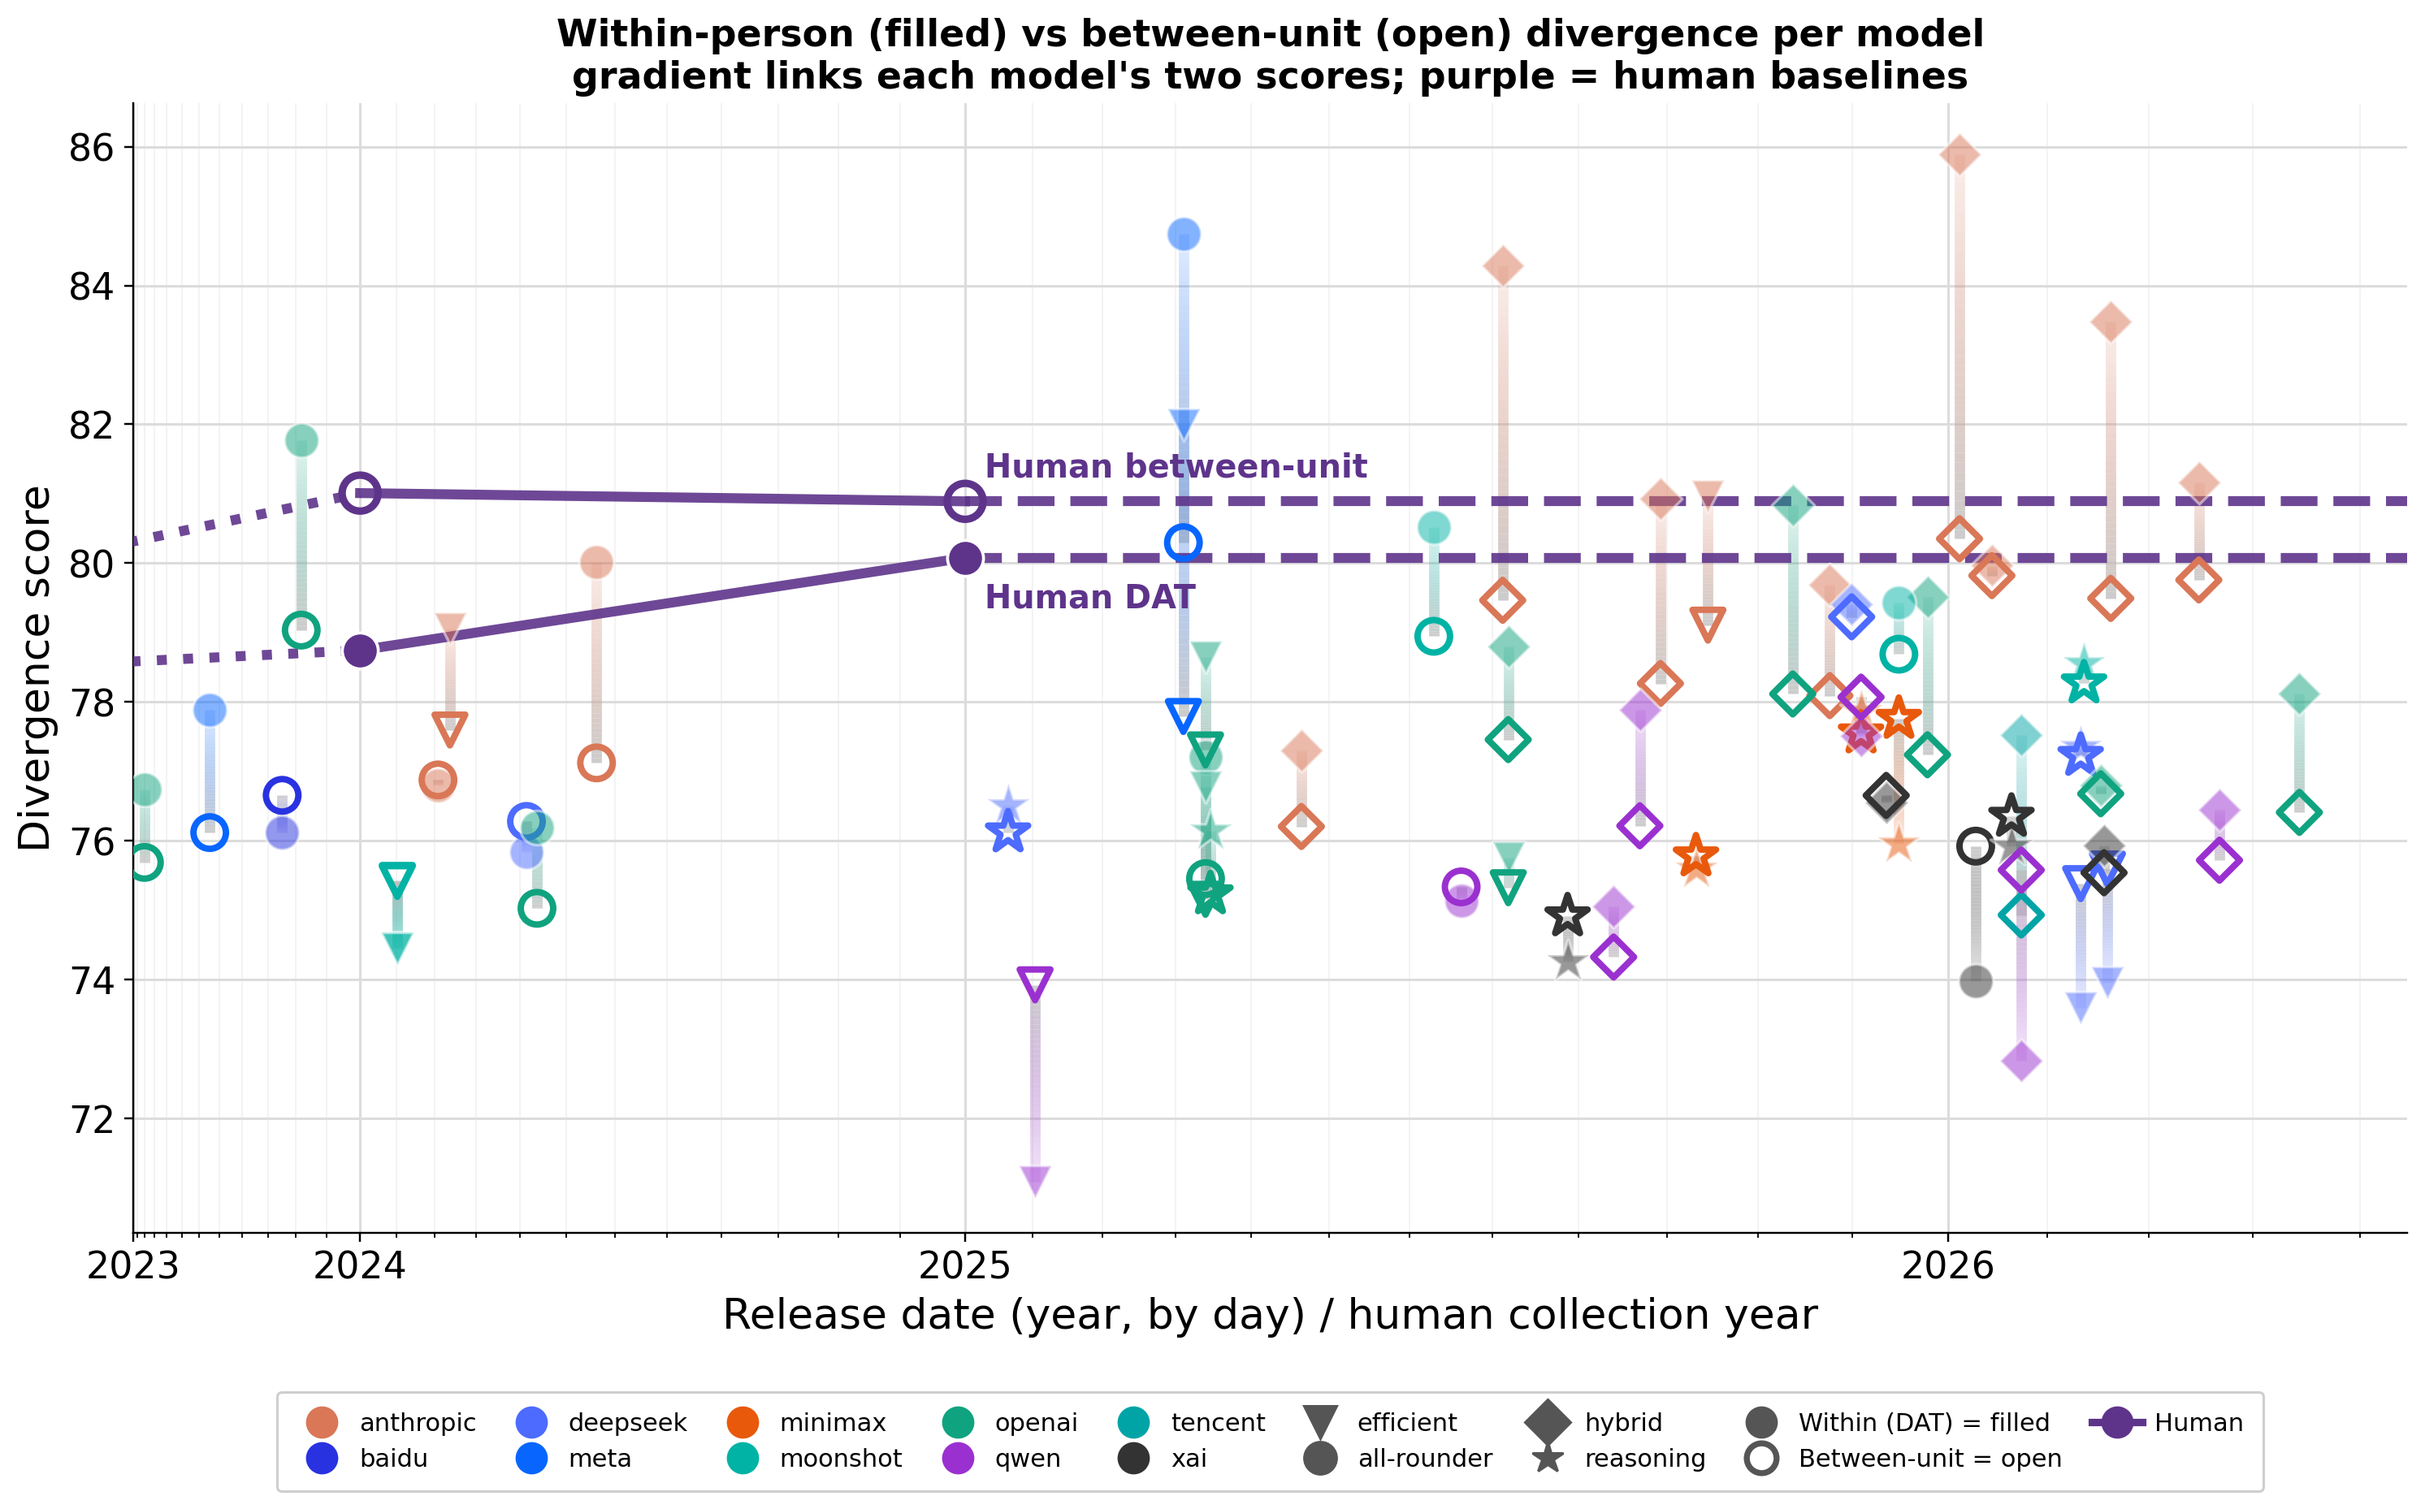
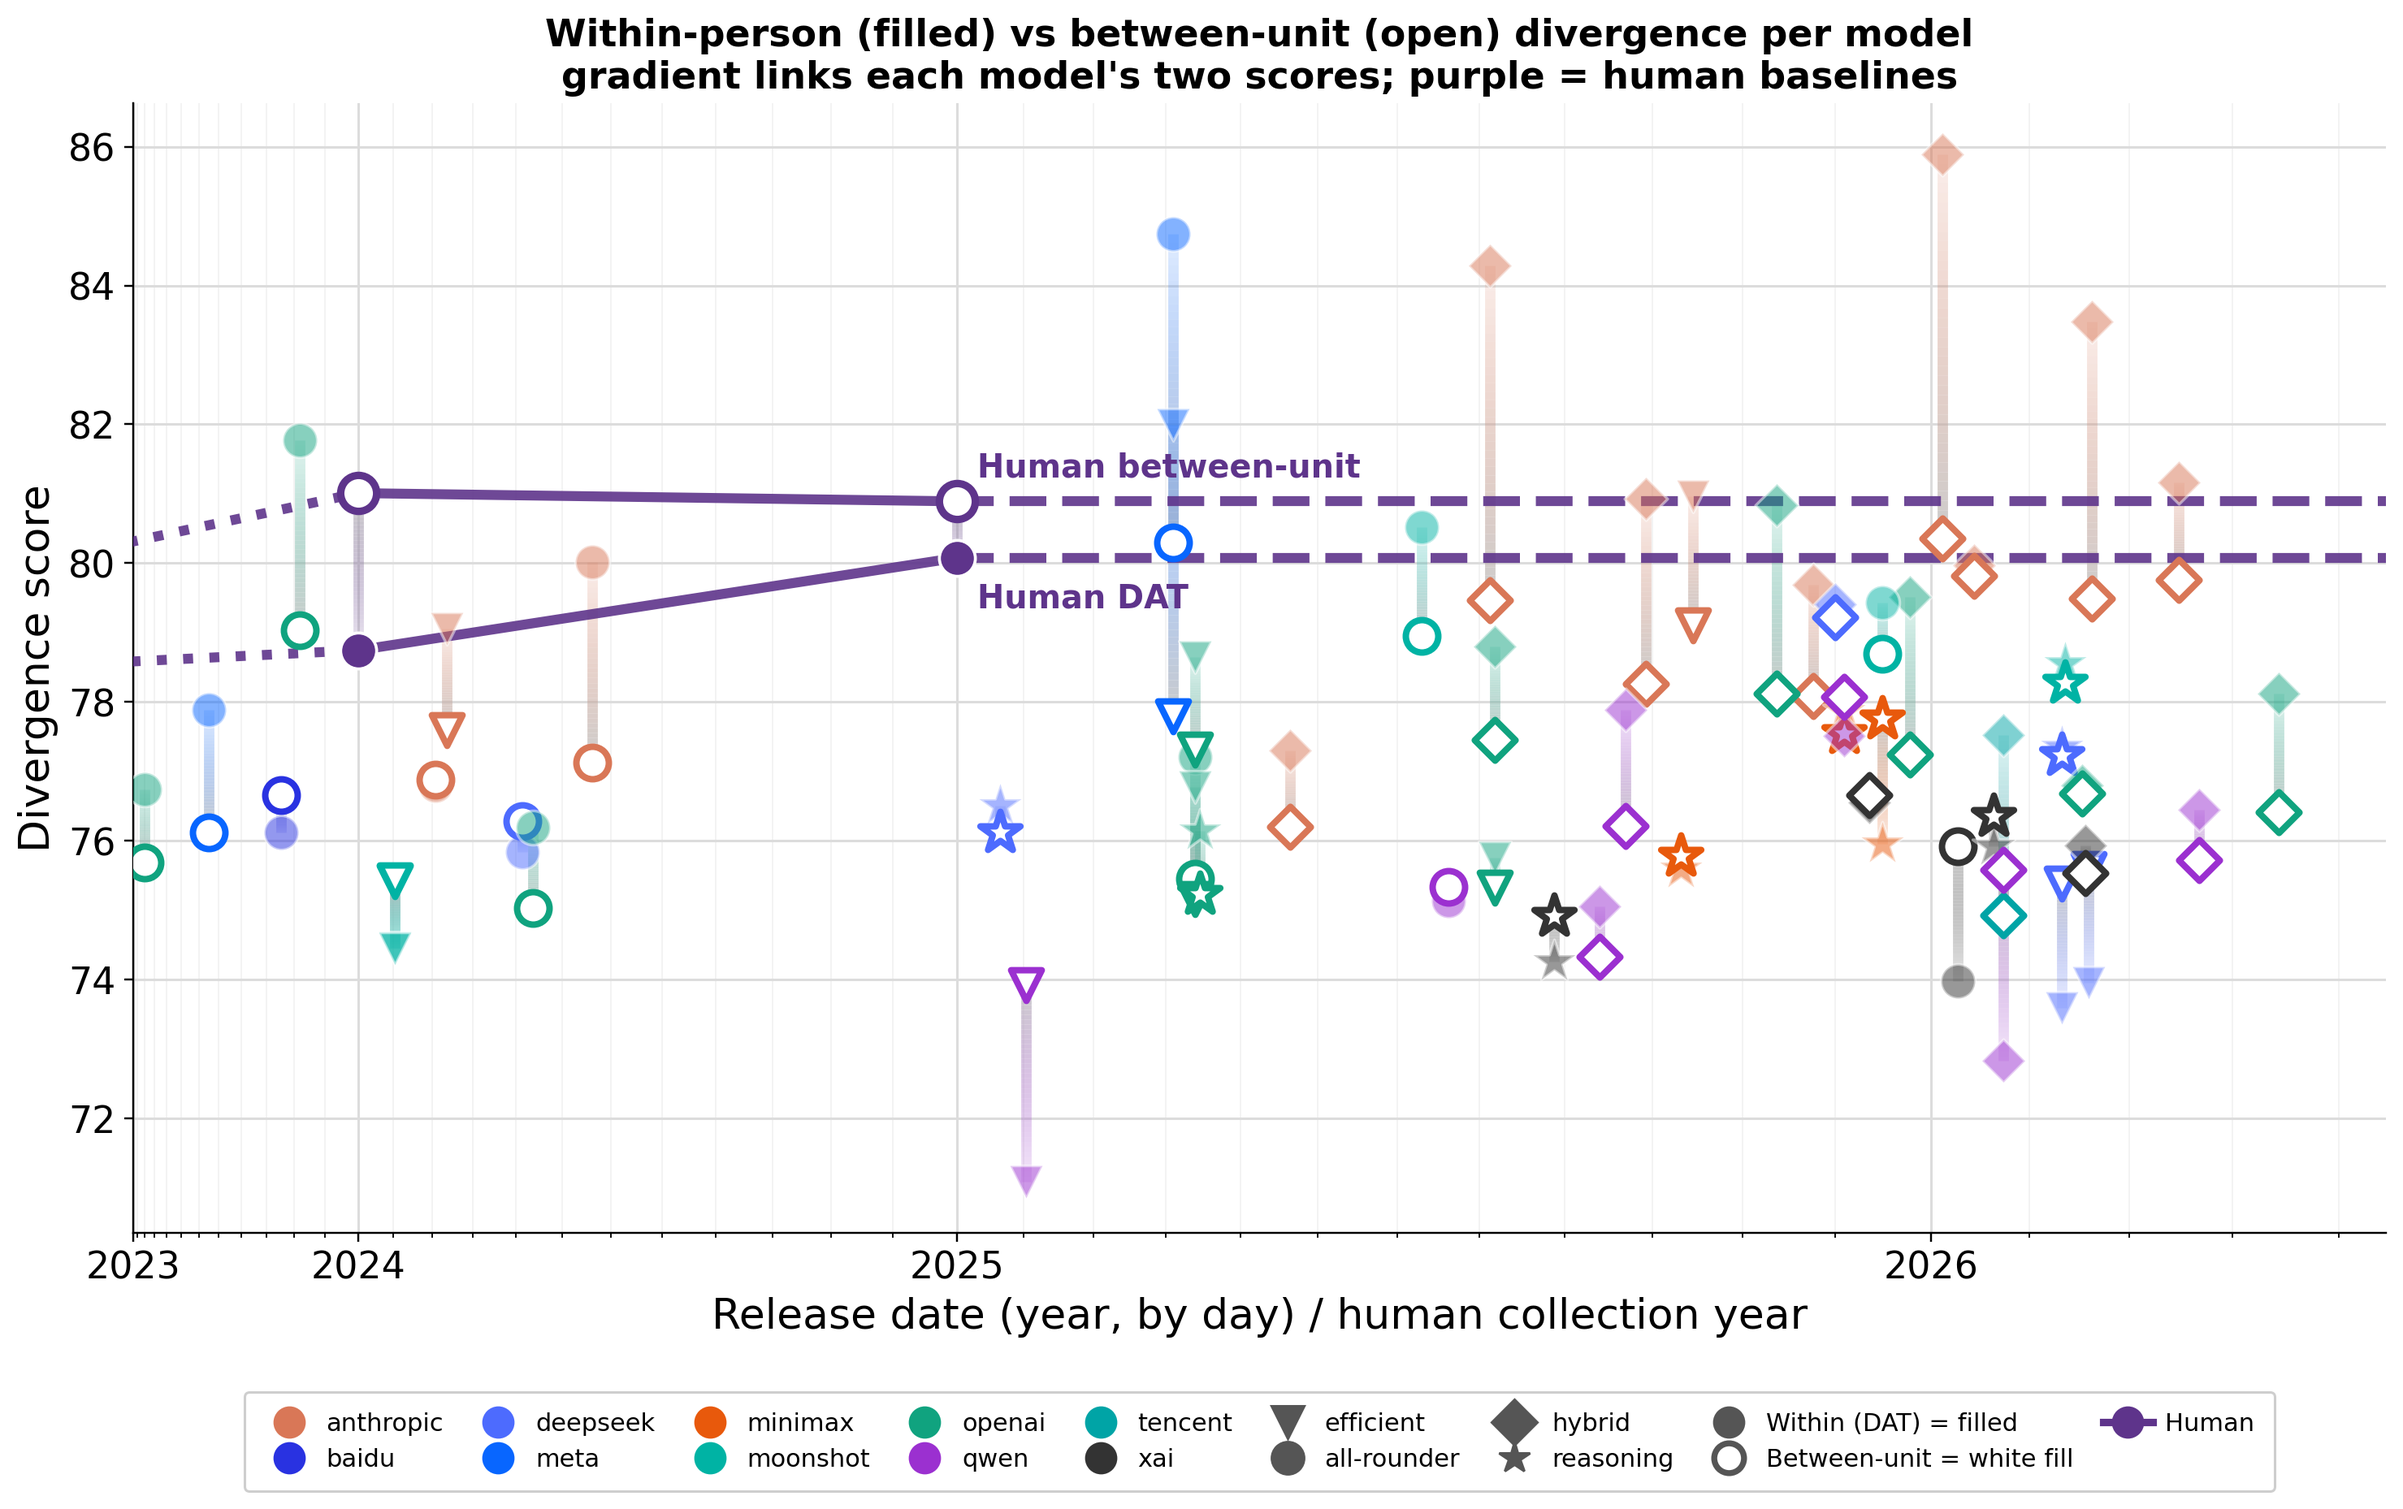
Overlay: white-fill all between-unit markers (models + human) + human connectors matching model gradient pattern

diff --git a/analysis/within_vs_between_overlay_plot.py b/analysis/within_vs_between_overlay_plot.py
@@ -48,7 +48,7 @@ for m in models:
 for m in models:
     x=dat[m][0]; p=dat[m][4]; intel=dat[m][5]; col=PROV_COLOR.get(p,'#888')
     ax.scatter(tx(x),dat[m][7],marker=MARK[intel],s=SIZE[intel],color=col,alpha=0.50,zorder=6,edgecolors='white',linewidths=1.1)
-    ax.scatter(tx(x),btw[m][7],marker=MARK[intel],s=SIZE[intel]*0.9,facecolors='none',edgecolors=col,linewidths=2.6,zorder=6)
+    ax.scatter(tx(x),btw[m][7],marker=MARK[intel],s=SIZE[intel]*0.9,facecolors='white',edgecolors=col,linewidths=2.6,zorder=6)
 # human baselines: DAT filled dashed, between open dashed
 def human_line(hy,style,fillopen):
     hx=sorted(hy)
@@ -57,9 +57,13 @@ def human_line(hy,style,fillopen):
     ax.plot([tx(2025),tx(xmax)],[hy[2025],hy[2025]],'--',color=HUMAN_PURPLE,lw=4,zorder=5,alpha=0.9)
     for y in hx:
         if fillopen=='fill': ax.scatter(tx(y),hy[y],marker='o',s=210,color=HUMAN_PURPLE,zorder=7,edgecolors='white',linewidths=1.2)
-        else: ax.scatter(tx(y),hy[y],marker='o',s=210,facecolors='none',edgecolors=HUMAN_PURPLE,linewidths=3,zorder=7)
+        else: ax.scatter(tx(y),hy[y],marker='o',s=210,facecolors='white',edgecolors=HUMAN_PURPLE,linewidths=3,zorder=7)
 human_line(dat_hy,'-','fill')
 human_line(btw_hy,'--','open')
+# human connectors: same gradient pattern as models (faded at DAT end -> strong at between end)
+for _y in sorted(set(dat_hy)&set(btw_hy)):
+    _segs,_cols=grad_segments(tx(_y),dat_hy[_y],btw_hy[_y],HUMAN_PURPLE,GRAD_TO)
+    ax.add_collection(LineCollection(_segs,colors=_cols,linewidths=4.2,zorder=4))
 ax.annotate("Human DAT",(tx(2025),dat_hy[2025]),textcoords="offset points",xytext=(8,-20),fontsize=13,weight='bold',color=HUMAN_PURPLE)
 ax.annotate("Human between-unit",(tx(2025),btw_hy[2025]),textcoords="offset points",xytext=(8,10),fontsize=13,weight='bold',color=HUMAN_PURPLE)
 
@@ -83,7 +87,7 @@ provs=sorted({dat[m][4] for m in models})
 prov_h=[Line2D([0],[0],marker='o',ls='none',color=PROV_COLOR.get(p,'#888'),ms=12,label=p) for p in provs]
 intel_h=[Line2D([0],[0],marker=MARK[t],ls='none',color='#555',ms=13,label=t) for t in ['efficient','all-rounder','hybrid','reasoning']]
 metric_h=[Line2D([0],[0],marker='o',ls='none',color='#555',ms=12,label='Within (DAT) = filled'),
-          Line2D([0],[0],marker='o',ls='none',markerfacecolor='none',markeredgecolor='#555',markeredgewidth=2.4,ms=12,label='Between-unit = open'),
+          Line2D([0],[0],marker='o',ls='none',markerfacecolor='white',markeredgecolor='#555',markeredgewidth=2.4,ms=12,label='Between-unit = white fill'),
           Line2D([0],[0],color=HUMAN_PURPLE,lw=3,marker='o',ms=12,label='Human')]
 handles=prov_h+intel_h+metric_h
 ax.legend(handles=handles,loc='upper center',bbox_to_anchor=(0.5,-0.13),ncol=9,fontsize=10,framealpha=0.95,handletextpad=0.5,columnspacing=1.2,borderpad=0.8)
